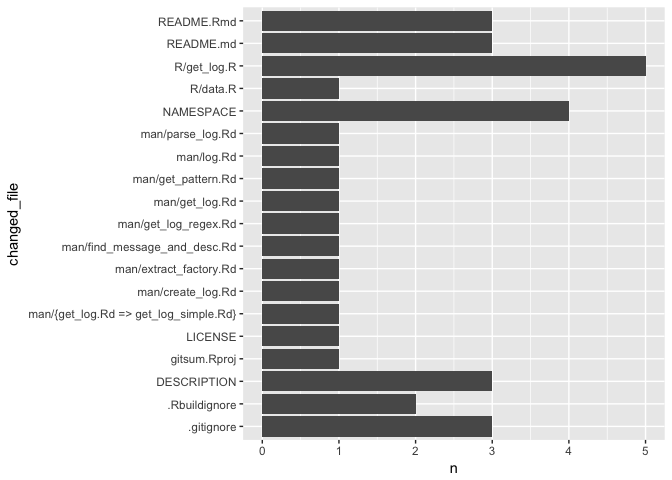
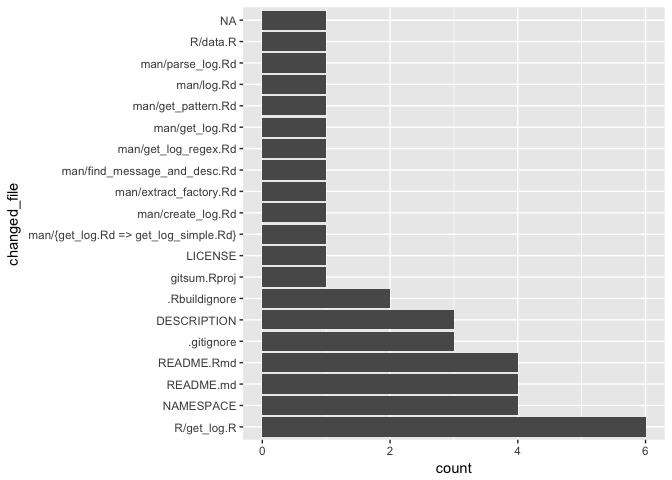
fix regex

diff --git a/README.md b/README.md
@@ -8,23 +8,30 @@ Introduction
 This package parses a git repository history to collect comprehensive information about the activity in the repo. The parsed data is made available to the user in a tabular format. To parse the git repo history,use `get_log_regex`. For each commit, the function also information on which files were changed in a nested tibble.
 
 ``` r
+library("gitsum")
+library("tidyverse")
+library("forcats")
+```
+
+``` r
 tbl <- get_log_regex() %>%
   select(short_hash, message, total_files_changed, nested)
 tbl 
-#> # A tibble: 11 × 4
+#> # A tibble: 12 × 4
 #>    short_hash               message total_files_changed           nested
 #>         <chr>                 <chr>               <int>           <list>
-#> 1        243f        initial commit                  NA <tibble [7 × 6]>
-#> 2        <NA>  add log example data                   1 <tibble [1 × 6]>
-#> 3        <NA>           add parents                   3 <tibble [3 × 6]>
-#> 4        <NA>          intermediate                   1 <tibble [1 × 6]>
-#> 5        <NA>           add licence                  NA <tibble [1 × 6]>
-#> 6        <NA>            add readme                  NA <tibble [2 × 6]>
-#> 7        <NA>     document log data                  NA <tibble [1 × 6]>
-#> 8        <NA>         add helpfiles                  10 <tibble [9 × 6]>
-#> 9        <NA> update infrastructure                   3 <tibble [3 × 6]>
-#> 10       <NA>        remove garbage                   6 <tibble [5 × 6]>
-#> 11       <NA>        add md anyways                   5 <tibble [3 × 6]>
+#> 1        243f        initial commit                   7 <tibble [7 × 6]>
+#> 2        f8ee  add log example data                   1 <tibble [1 × 6]>
+#> 3        6328           add parents                   3 <tibble [3 × 6]>
+#> 4        dfab          intermediate                   1 <tibble [1 × 6]>
+#> 5        7825           add licence                   1 <tibble [1 × 6]>
+#> 6        2ac3            add readme                   2 <tibble [2 × 6]>
+#> 7        7a2a     document log data                   1 <tibble [1 × 6]>
+#> 8        943c         add helpfiles                  10 <tibble [9 × 6]>
+#> 9        917e update infrastructure                   3 <tibble [3 × 6]>
+#> 10       4fc0        remove garbage                   6 <tibble [5 × 6]>
+#> 11       7be6        add md anyways                   5 <tibble [3 × 6]>
+#> 12       cd3f             fix regex                   4 <tibble [3 × 6]>
 ```
 
 ``` r
@@ -53,7 +60,7 @@ group_by(author_name) %>%
 #> # A tibble: 1 × 2
 #>       author_name     n
 #>             <chr> <int>
-#> 1 Lorenz Walthert    11
+#> 1 Lorenz Walthert    12
 ```
 
 Next, we want to see which files were contained in most commits.
@@ -61,10 +68,8 @@ Next, we want to see which files were contained in most commits.
 ``` r
 log %>%
   unnest(nested) %>% # unnest the tibble
-  group_by(changed_file) %>%
-  count() %>%
-  na.omit() %>%
-  ggplot(aes(x = changed_file, y = n)) + geom_col() + coord_flip()
+  mutate(changed_file = fct_infreq(changed_file)) %>%
+  ggplot(aes(x = changed_file)) + geom_bar() + coord_flip()
 ```
 
 ![](README-ggplot1-1.png)
